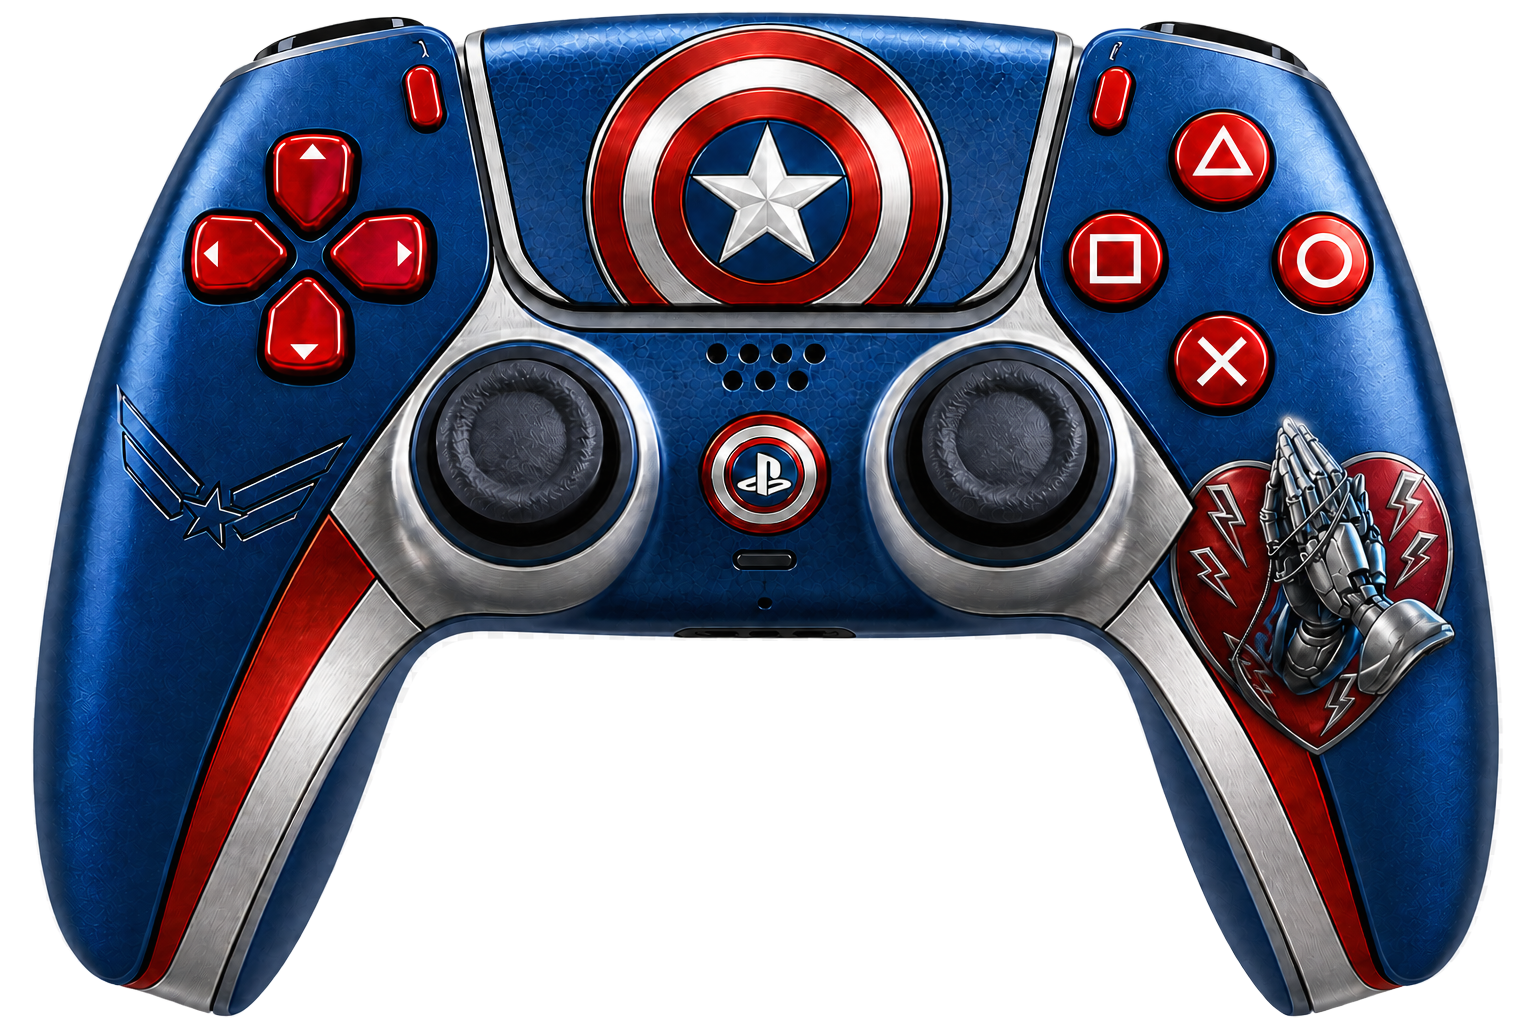
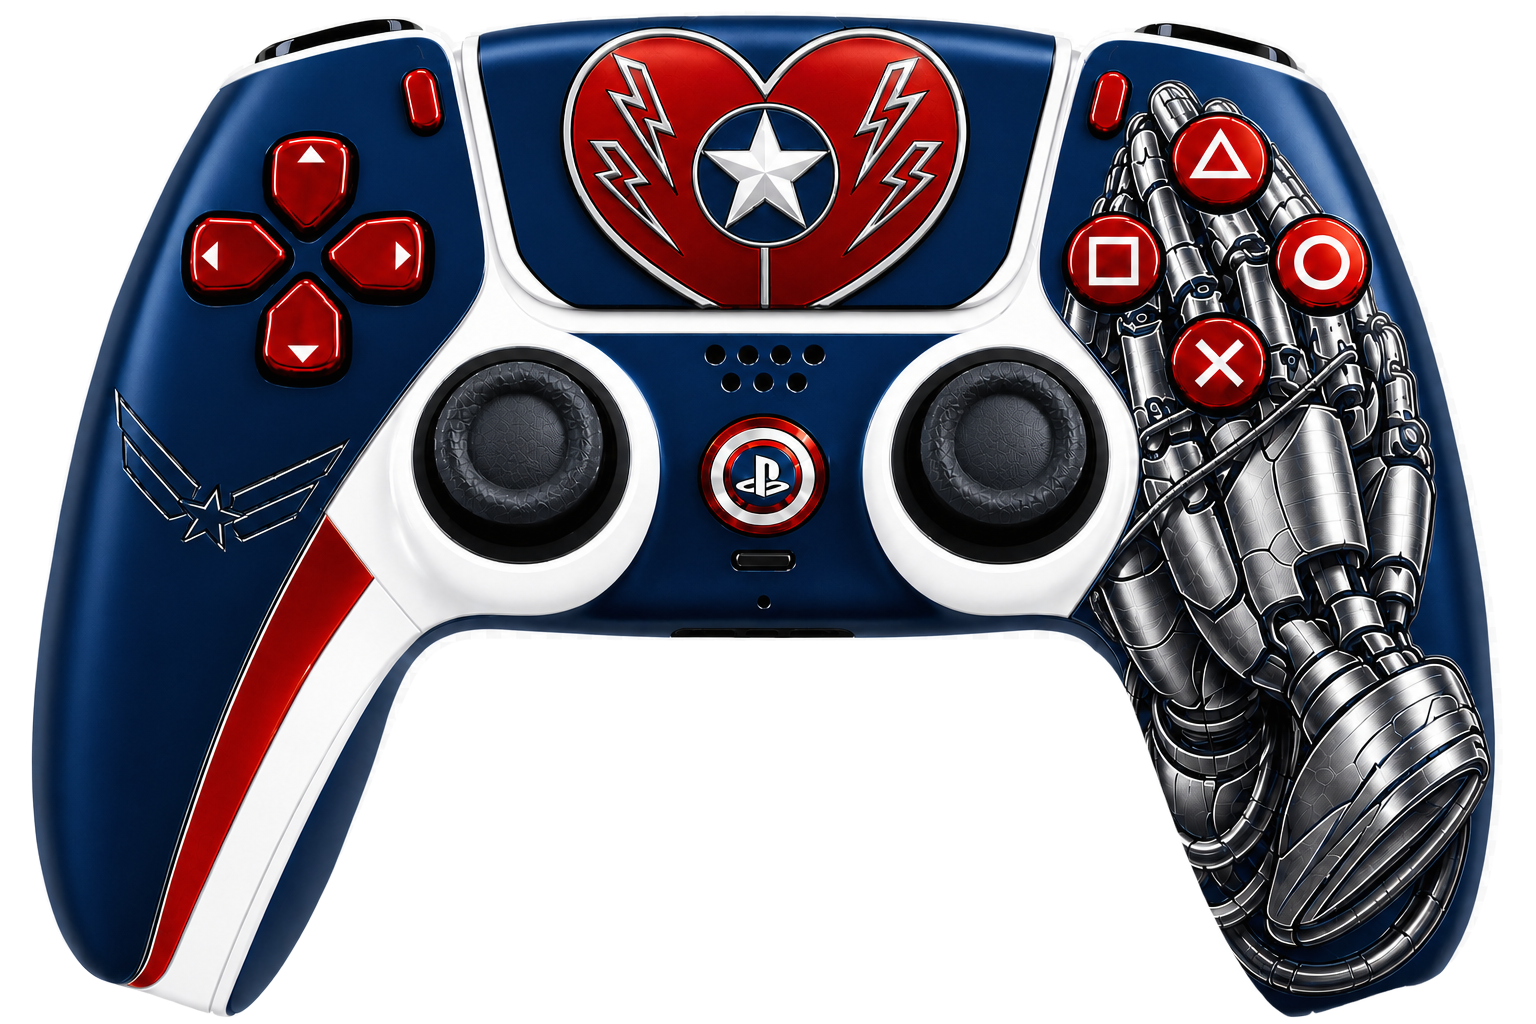
Add files via upload

diff --git a/xfg-ps5-captain-america.css b/xfg-ps5-captain-america.css
@@ -1,4 +1,4 @@
-/* Captain America DualSense v1 — measured for the 806x598 universal bridge canvas. */
+/* Captain America DualSense v2 — heart-pad / robotic-hands edition, measured for the 806x598 bridge canvas. */
 :root {
   --captain-red: 226, 21, 30;
   --captain-blue: 24, 101, 181;
@@ -22,7 +22,7 @@ body {
   width: 806px !important;
   height: 598px !important;
   margin: 0 !important;
-  background: url("./xfg-ps5-captain-america.png?v=1") 0 var(--art-y) / 806px var(--art-h) no-repeat !important;
+  background: url("./xfg-ps5-captain-america.png?v=2") 0 var(--art-y) / 806px var(--art-h) no-repeat !important;
   image-rendering: auto !important;
   filter: none !important;
   isolation: isolate;
@@ -73,7 +73,7 @@ body {
   border: 0 !important;
   float: none !important;
   opacity: 0 !important;
-  background-image: url("./xfg-ps5-captain-america.png?v=1") !important;
+  background-image: url("./xfg-ps5-captain-america.png?v=2") !important;
   background-size: 806px var(--art-h) !important;
   background-repeat: no-repeat !important;
   box-sizing: border-box !important;
@@ -194,7 +194,7 @@ body {
   border: 0 !important;
   border-radius: 50% !important;
   opacity: 1 !important;
-  background-image: url("./xfg-ps5-captain-america.png?v=1") !important;
+  background-image: url("./xfg-ps5-captain-america.png?v=2") !important;
   background-size: 806px var(--art-h) !important;
   background-repeat: no-repeat !important;
   box-shadow: inset 0 0 7px rgba(0,0,0,.38) !important;

diff --git a/xfg-ps5-captain-america-bridge.html b/xfg-ps5-captain-america-bridge.html
@@ -5,7 +5,7 @@
   <meta name="viewport" content="width=806,initial-scale=1,maximum-scale=1,user-scalable=no">
   <meta http-equiv="Cache-Control" content="no-cache, no-store, must-revalidate">
   <title>XFG Captain America Universal Controller Overlay</title>
-  <link rel="stylesheet" href="./xfg-ps5-captain-america.css?v=1">
+  <link rel="stylesheet" href="./xfg-ps5-captain-america.css?v=2">
   <style>
     html,body{width:806px;height:598px;margin:0;overflow:hidden;background:transparent!important}
     .controller{position:absolute;inset:0;margin:0!important}
